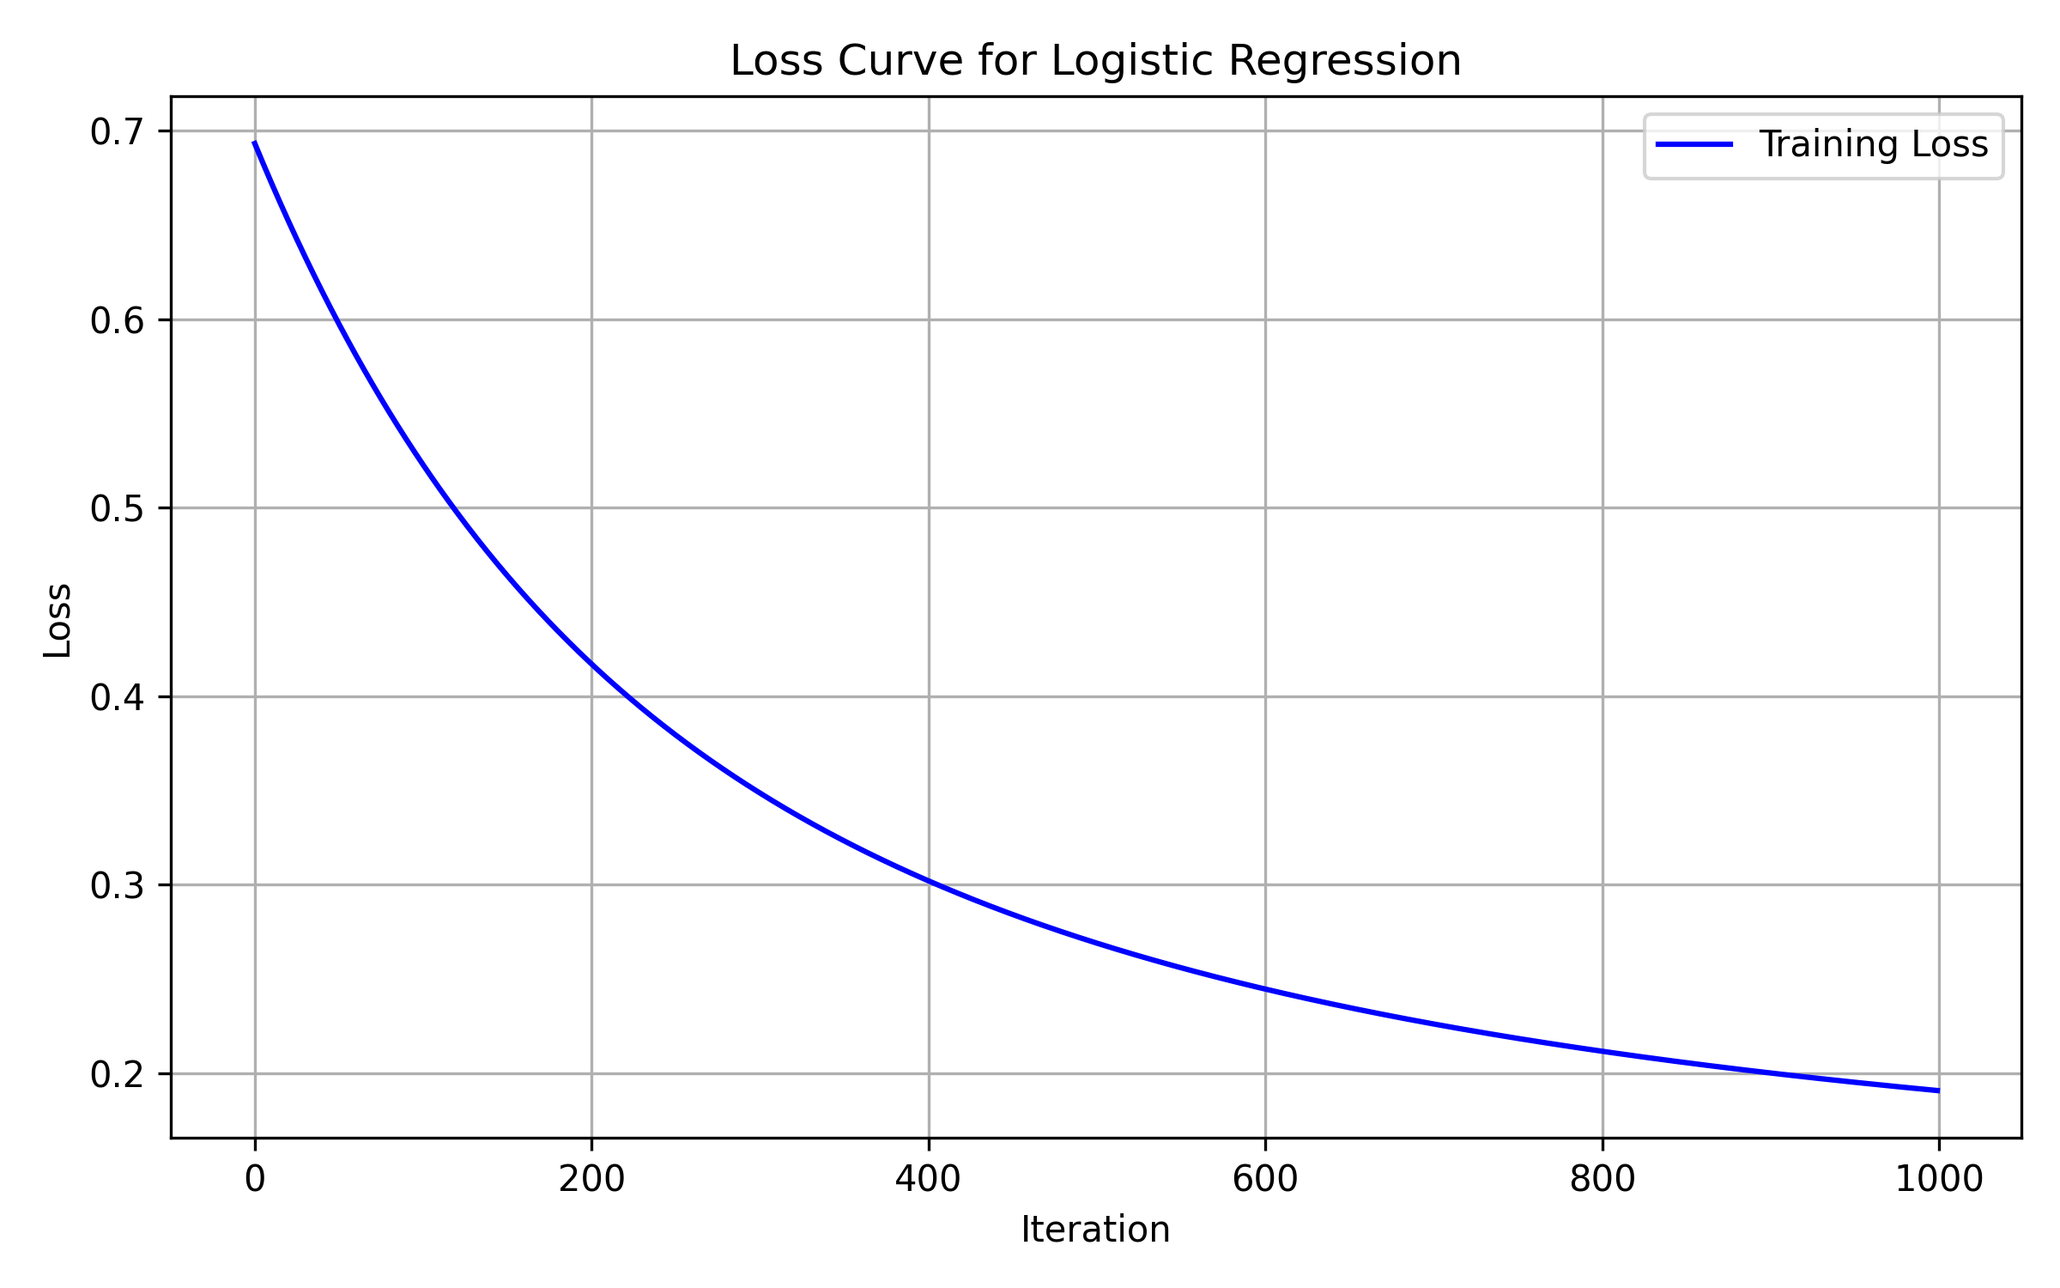
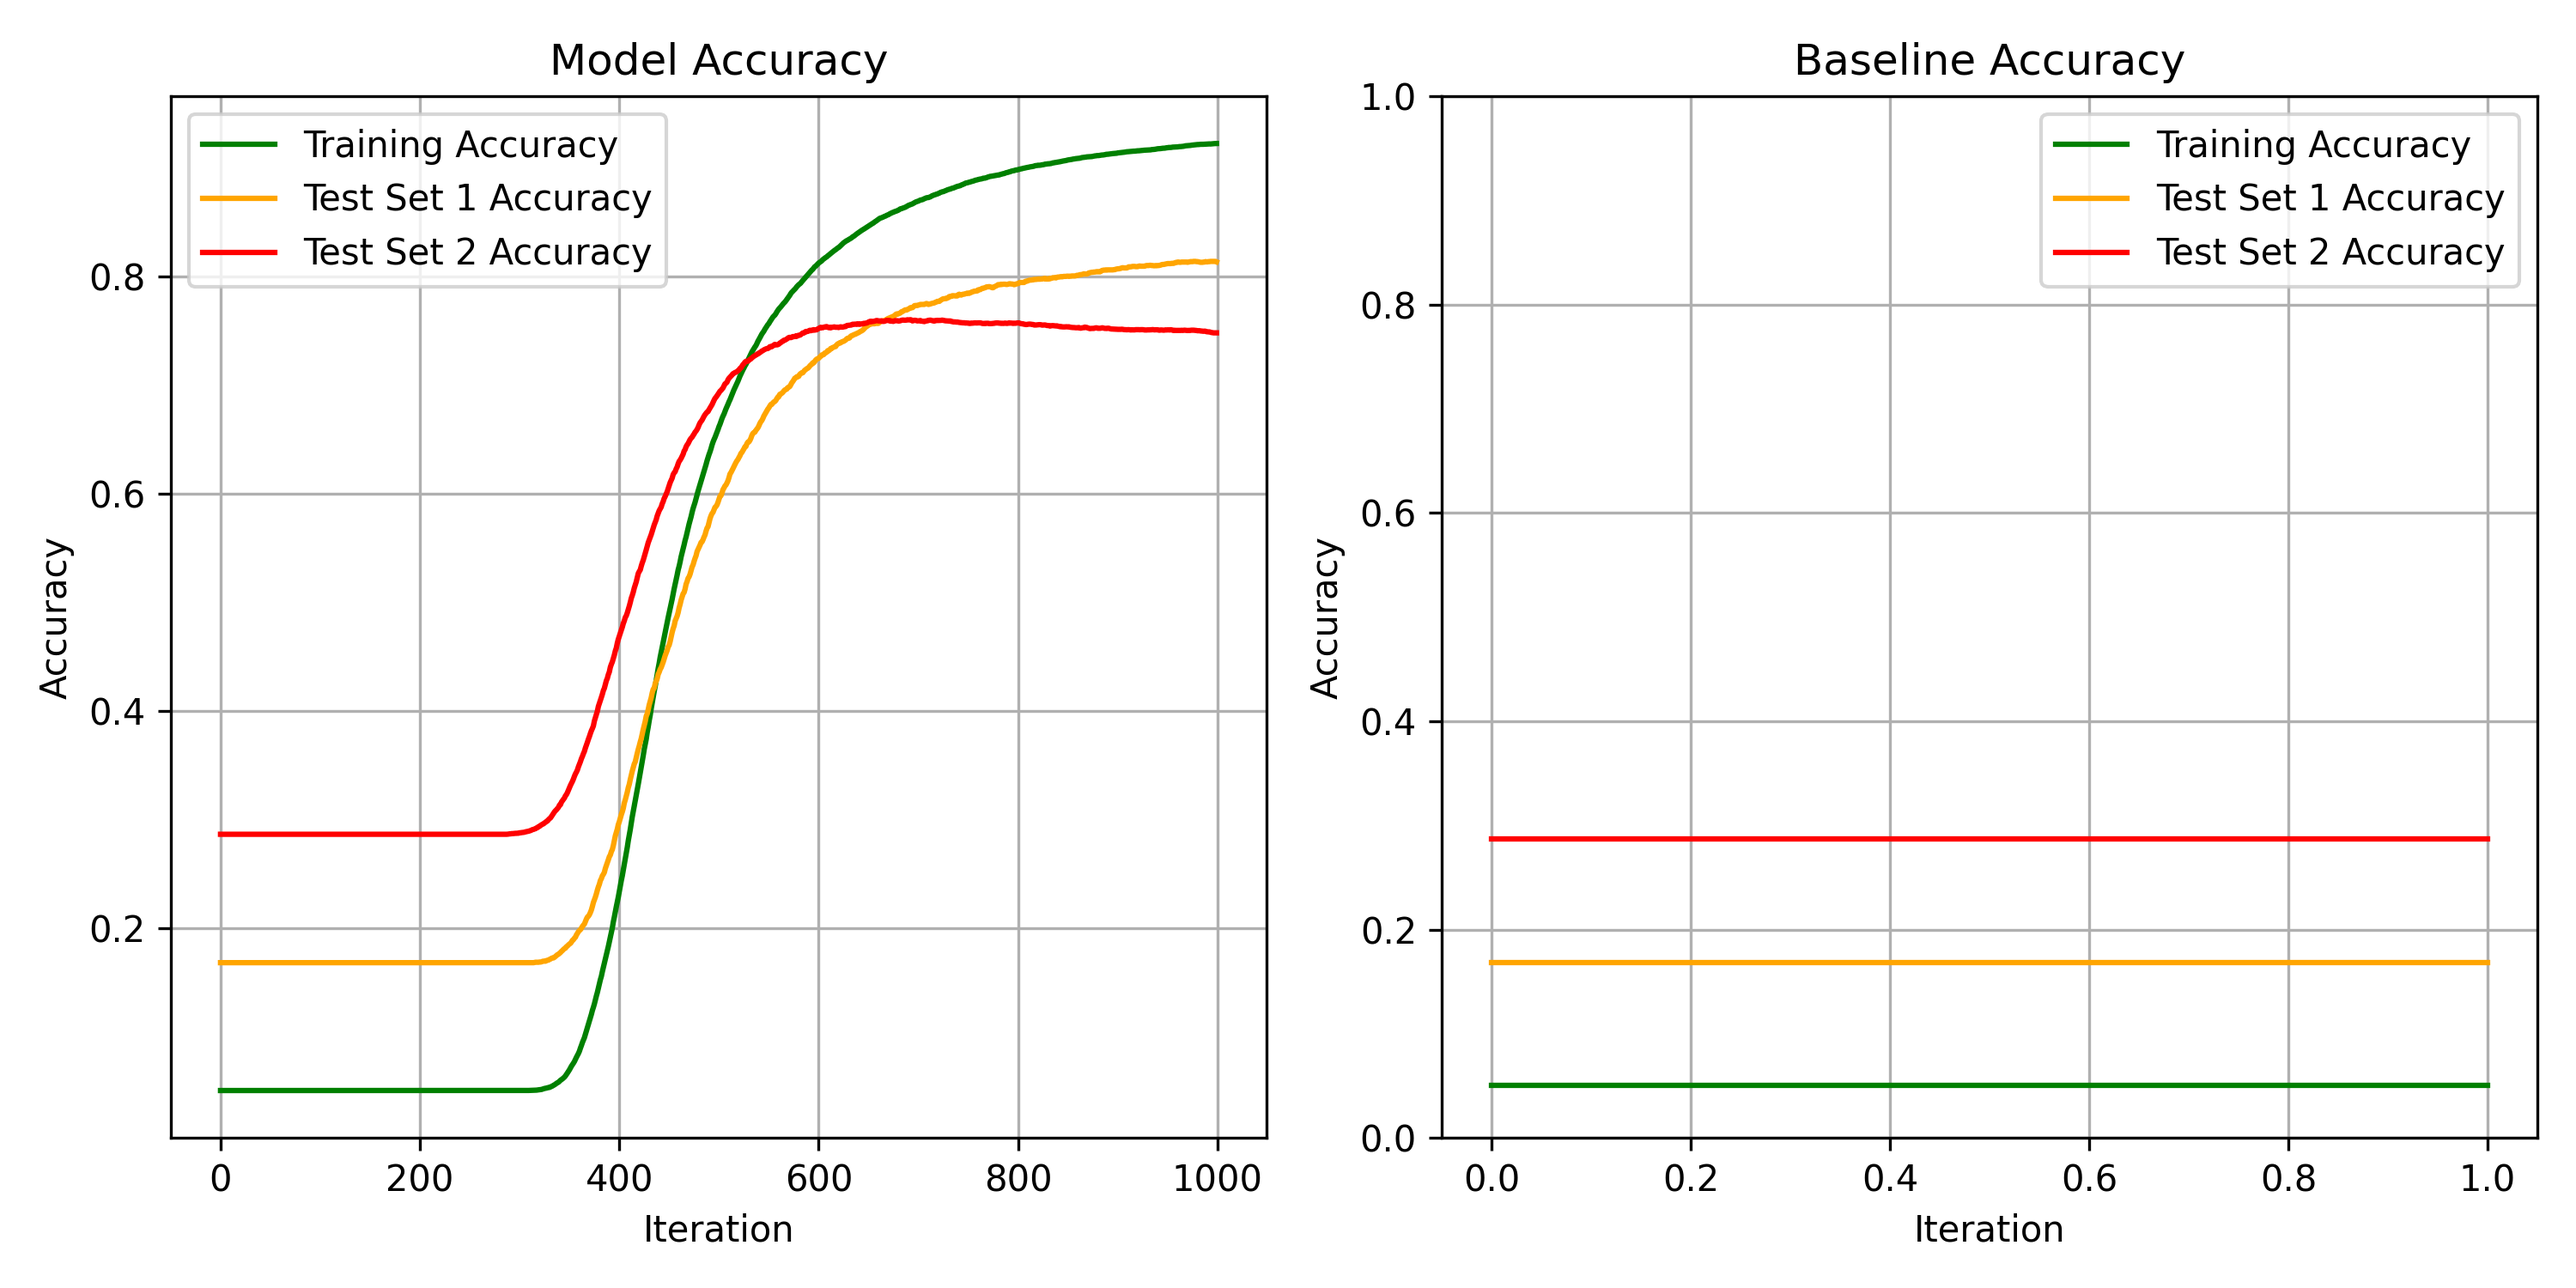
Changed accuracy plots so they print side by side and commented out MSE graph because not necessary

diff --git a/logistic_regression.py b/logistic_regression.py
@@ -385,17 +385,17 @@ def main():
     # mean squared error for baseline (MSE seems to be different from loss in logistic regression so it can't be compared in the
     # same way)
     mse, acc = baseline(x_train, y_train, x_test1, y_test1, x_test2, y_test2, threshold)
-    plt.figure(figsize=(8,5))
-    plt.plot([mse["train"], mse["train"]], label="Training MSE", color="blue")
-    plt.xlabel("Iteration")
-    plt.ylabel("MSE")
-    plt.title("Baseline MSE")
-    plt.legend()
-    plt.grid(True)
-    plt.tight_layout()
-    plt.show()
+    # plt.figure(figsize=(8,5))
+    # plt.plot([mse["train"], mse["train"]], label="Training MSE", color="blue")
+    # plt.xlabel("Iteration")
+    # plt.ylabel("MSE")
+    # plt.title("Baseline MSE")
+    # plt.legend()
+    # plt.grid(True)
+    # plt.tight_layout()
+    # plt.show()
 
-    pause_for_user("Loss curve shown. Press Enter to plot accuracy curves...")
+    pause_for_user("Loss curve shown. Press Enter to plot accuracy...")
 
     # accuracy curve
     train_accuracies = []
@@ -412,30 +412,32 @@ def main():
         test1_accuracies.append(np.mean(y_test1_pred_iter == y_test1))
         test2_accuracies.append(np.mean(y_test2_pred_iter == y_test2))
 
-    plt.figure(figsize=(8,5))
-    plt.plot(range(len(losses)), train_accuracies, label="Training Accuracy", color="green")
-    plt.plot(range(len(losses)), test1_accuracies, label="Test Set 1 Accuracy", color="orange")
-    plt.plot(range(len(losses)), test2_accuracies, label="Test Set 2 Accuracy", color="red")
-    plt.xlabel("Iteration")
-    plt.ylabel("Accuracy")
-    plt.title("Accuracy Curve")
-    plt.legend()
-    plt.grid(True)
-    plt.tight_layout()
-    plt.savefig("graphs/accuracy_curve.png", dpi=300)
-    print("Accuracy curve saved as 'accuracy_curve.png'.")
-    plt.show()
+    # Creates 2 subplots with accuracy of both model and baseline side by side
+    # Accuracy of the model
+    fig, axes = plt.subplots(1, 2, figsize=(10,5))
+    axes[0].plot(range(len(losses)), train_accuracies, label="Training Accuracy", color="green")
+    axes[0].plot(range(len(losses)), test1_accuracies, label="Test Set 1 Accuracy", color="orange")
+    axes[0].plot(range(len(losses)), test2_accuracies, label="Test Set 2 Accuracy", color="red")
+    axes[0].set_xlabel("Iteration")
+    axes[0].set_ylabel("Accuracy")
+    axes[0].set_title("Model Accuracy")
+    axes[0].legend()
+    axes[0].grid(True)
+
     
     # Accuracy of the baseline
-    plt.plot([acc["train"], acc["train"]], label="Training Accuracy", color="green")
-    plt.plot([acc["test1"], acc["test1"]], label="Test Set 1 Accuracy", color="orange")
-    plt.plot([acc["test2"], acc["test2"]], label="Test Set 2 Accuracy", color="red")
-    plt.xlabel("Iteration")
-    plt.ylabel("Accuracy")
-    plt.title("Baseline Accuracy")
-    plt.legend(loc = (1.05, 0.5))
-    plt.grid(True)
+    axes[1].plot([acc["train"], acc["train"]], label="Training Accuracy", color="green")
+    axes[1].plot([acc["test1"], acc["test1"]], label="Test Set 1 Accuracy", color="orange")
+    axes[1].plot([acc["test2"], acc["test2"]], label="Test Set 2 Accuracy", color="red")
+    axes[1].set_xlabel("Iteration")
+    axes[1].set_ylabel("Accuracy")
+    axes[1].set_title("Baseline Accuracy")
+    axes[1].legend()
+    axes[1].grid(True)
+    plt.ylim(0, 1)
     plt.tight_layout()
+    plt.savefig("graphs/loss_curve.png", dpi=300)
+    print("\nLoss curve saved as 'loss_curve.png'.")
     plt.show()
 
     pause_for_user("Accuracy curves shown. Press Enter to run final predictions and evaluations...")
